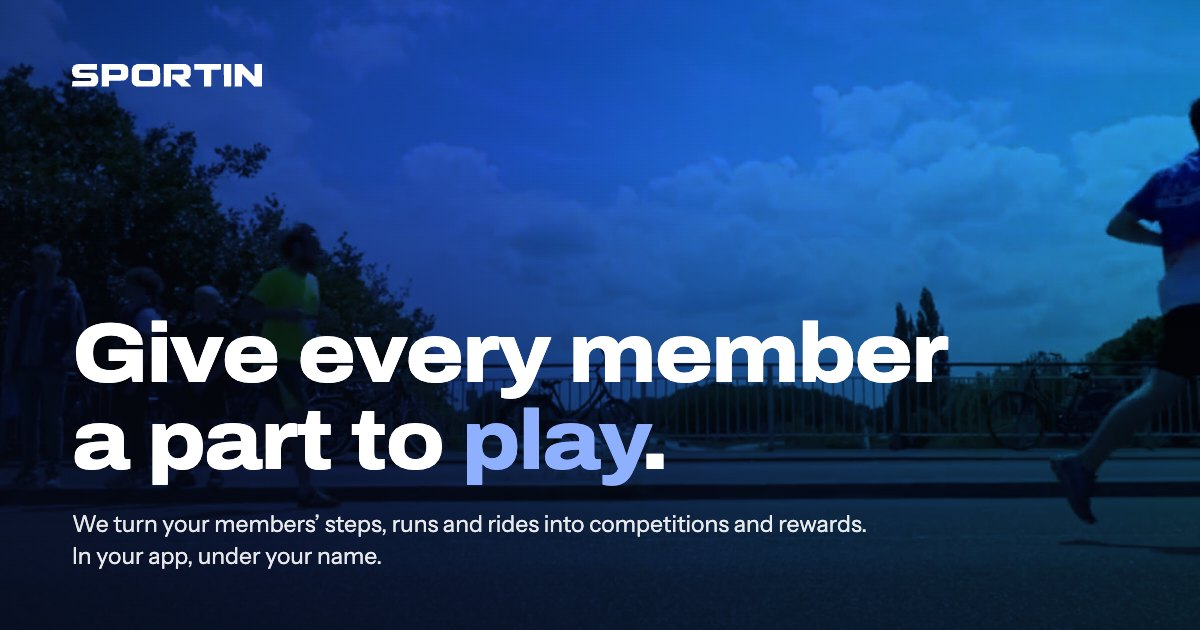
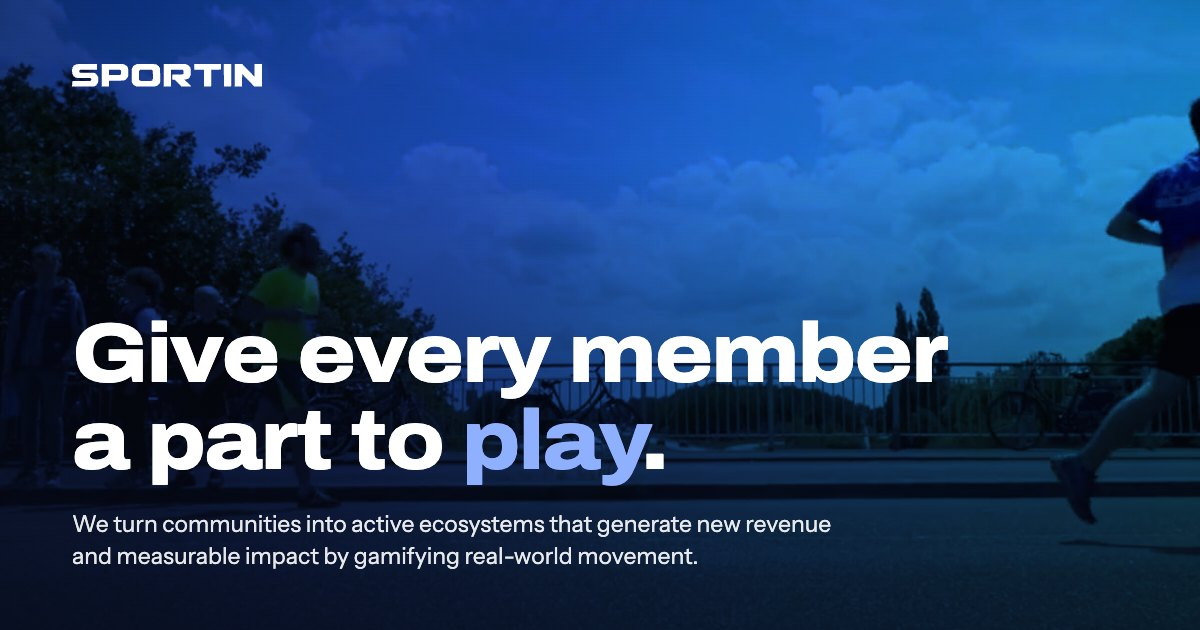
fix(homepage): restore Adrian's approved motto, on the page and in the tags
The previous commit restored the wrong text: "We turn your members'
steps..." came from the copy review (f182763), not from Adrian. His
approved line, under the hero title and in every description, is back:
"We turn communities into active ecosystems that generate new revenue
and measurable impact by gamifying real-world movement."

The title is back to its exact original, "SportIn — Your community, in
motion". The share image carries the same line (URL ?v=3).

Changed region(s): [[0.1233, 0.8143, 0.74, 0.8444], [0.0617, 0.8746, 0.5858, 0.9048]]

diff --git a/index.html b/index.html
@@ -3,16 +3,16 @@
 <head>
   <meta charset="utf-8" />
   <meta name="viewport" content="width=device-width, initial-scale=1" />
-  <title>SportIn: your community, in motion</title>
-  <meta name="description" content="We turn your members' steps, runs and rides into competitions and rewards. In your app, under your name." />
+  <title>SportIn — Your community, in motion</title>
+  <meta name="description" content="We turn communities into active ecosystems that generate new revenue and measurable impact by gamifying real-world movement." />
   <link rel="canonical" href="https://www.sportin.io/" />
   <link rel="icon" href="/favicon.svg" type="image/svg+xml" />
   <meta property="og:type" content="website" />
   <meta property="og:site_name" content="SportIn" />
-  <meta property="og:title" content="SportIn: your community, in motion" />
-  <meta property="og:description" content="We turn your members' steps, runs and rides into competitions and rewards. In your app, under your name." />
+  <meta property="og:title" content="SportIn — Your community, in motion" />
+  <meta property="og:description" content="We turn communities into active ecosystems that generate new revenue and measurable impact by gamifying real-world movement." />
   <meta property="og:url" content="https://www.sportin.io/" />
-  <meta property="og:image" content="https://www.sportin.io/og-image.jpg?v=2" />
+  <meta property="og:image" content="https://www.sportin.io/og-image.jpg?v=3" />
   <meta property="og:image:width" content="1200" />
   <meta property="og:image:height" content="630" />
   <meta property="og:image:alt" content="SportIn: give every member a part to play." />
@@ -20,9 +20,9 @@
   <meta name="theme-color" content="#0751FB" />
   <meta property="og:locale" content="en_US" />
   <meta name="twitter:site" content="@sportin_io" />
-  <meta name="twitter:title" content="SportIn: your community, in motion" />
-  <meta name="twitter:description" content="We turn your members' steps, runs and rides into competitions and rewards. In your app, under your name." />
-  <meta name="twitter:image" content="https://www.sportin.io/og-image.jpg?v=2" />
+  <meta name="twitter:title" content="SportIn — Your community, in motion" />
+  <meta name="twitter:description" content="We turn communities into active ecosystems that generate new revenue and measurable impact by gamifying real-world movement." />
+  <meta name="twitter:image" content="https://www.sportin.io/og-image.jpg?v=3" />
   <link rel="apple-touch-icon" href="/apple-touch-icon.png" />
 <script type="application/ld+json">
 {
@@ -32,7 +32,7 @@
   "legalName": "SportIn.io SRL",
   "url": "https://www.sportin.io/",
   "logo": "https://www.sportin.io/apple-touch-icon.png",
-  "description": "We turn your members' steps, runs and rides into competitions and rewards. In your app, under your name.",
+  "description": "We turn communities into active ecosystems that generate new revenue and measurable impact by gamifying real-world movement.",
   "address": { "@type": "PostalAddress", "addressCountry": "RO" },
   "sameAs": [
     "https://www.linkedin.com/company/sportin-io",
@@ -55,7 +55,7 @@
   "applicationCategory": "BusinessApplication",
   "operatingSystem": "Web, iOS, Android",
   "url": "https://www.sportin.io/",
-  "description": "We turn your members' steps, runs and rides into competitions and rewards. In your app, under your name.",
+  "description": "We turn communities into active ecosystems that generate new revenue and measurable impact by gamifying real-world movement.",
   "offers": { "@type": "Offer", "price": "0", "priceCurrency": "EUR", "availability": "https://schema.org/InStock" },
   "audience": [
     { "@type": "Audience", "audienceType": "Head of Marketing" },
@@ -115,7 +115,7 @@
     <div class="wrap">
       <p class="feat__idx" data-reveal><b>01</b><span>What we do</span><em>A part to play</em></p>
       <h1 class="display display--xl hero__title" id="heroTitle" data-reveal style="--d:.08s">Give every <span class="rot" aria-hidden="true"><span class="rot__word">member</span></span><span class="sr-only">member, client or employee</span><br class="hero__br" /> a part to <em>play</em>.</h1>
-      <p class="lede hero__lede" data-reveal style="--d:.16s">We turn your members&rsquo; steps, runs and rides into competitions and rewards. In your app, under your name.</p>
+      <p class="lede hero__lede" data-reveal style="--d:.16s">We turn communities into active ecosystems that generate new revenue and measurable impact by gamifying real-world movement.</p>
       <div class="hero__actions" data-reveal style="--d:.24s">
         <a class="btn btn--primary" href="https://calendly.com/sportin" target="_blank" rel="noopener">Book a demo <span class="btn__arrow" aria-hidden="true">→</span></a>
         <a class="btn btn--ghost" href="#engine">See how it works ↓</a>
